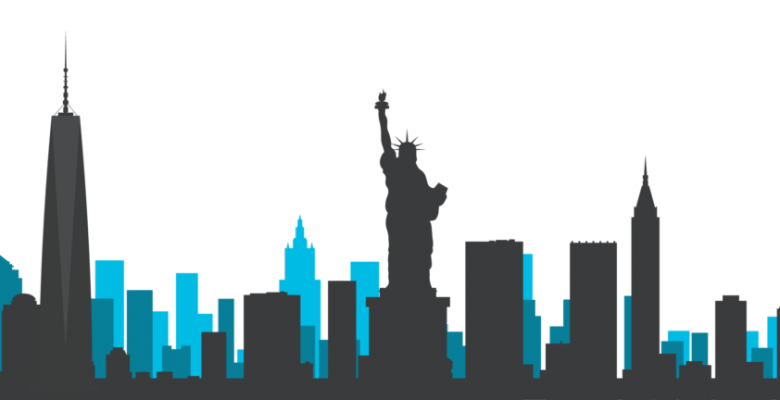
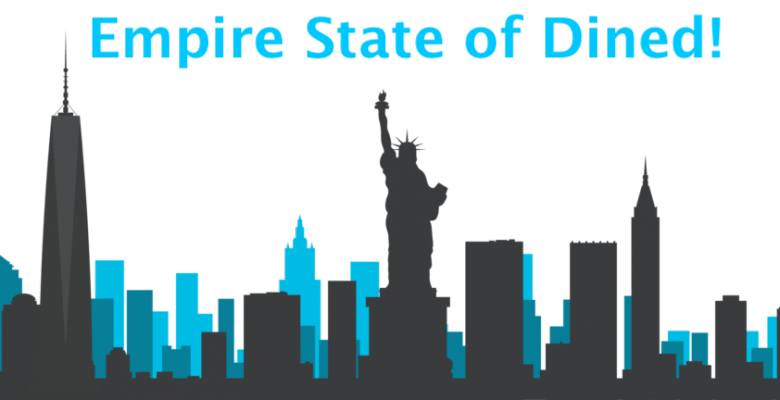
jjj

Changed region(s): [[0.0923, 0.03, 0.9231, 0.18]]

diff --git a/project/home.html b/project/home.html
@@ -5,7 +5,7 @@
 <meta name="viewport" content="width=device-width, initial-scale=1.0"/>
 <title>Empire State of Dined! </title>
 <h1> About Me!</h1> 
-<header><img src="../images/IMG_5669.jpg" alt="Steph Plithides"></header>
+<header><img src="/project/media/statue-of-liberty-national-monument-skyline-vector-graphics-nyc-png-780_400.png" alt="Skyline"></header>
 
 
 </head>
